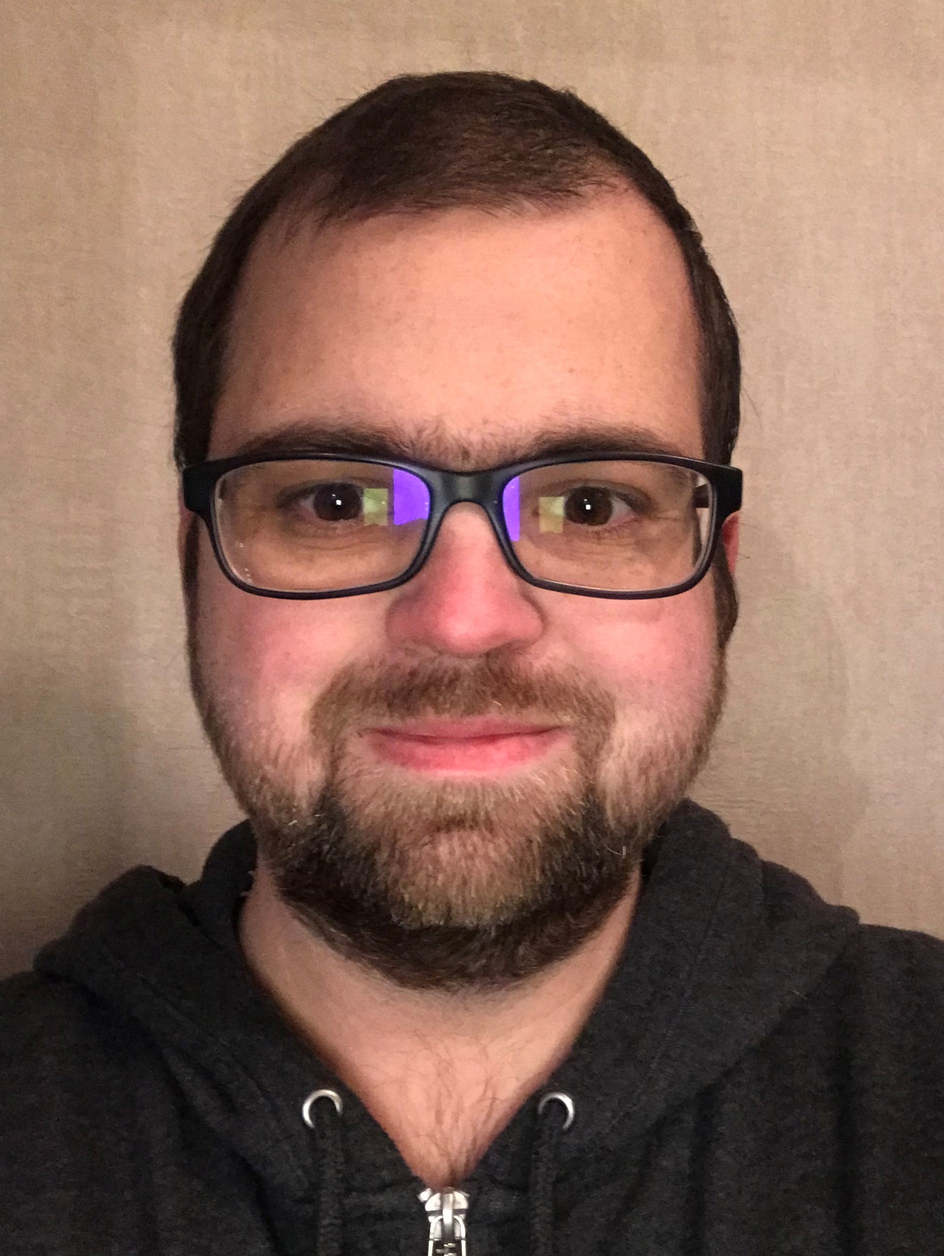
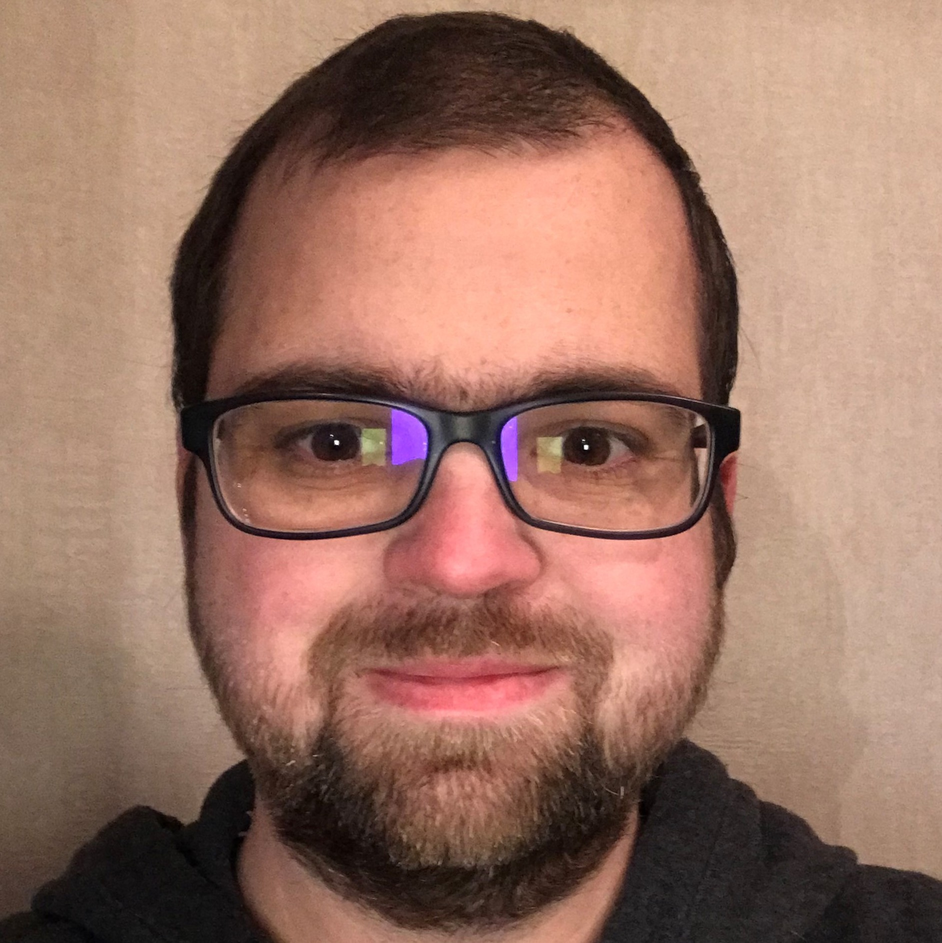
Ajout de meta description et open graph + modification de la photo

diff --git a/index.html b/index.html
@@ -1,17 +1,25 @@
 <!DOCTYPE html>
-<html lang="fr">
+<html lang="fr" prefix="og: http://ogp.me/ns#">
     <head>
         <!-- META -->
-        <meta charset="UTF-8">
-        <meta name="viewport" content="width=device-width, initial-scale=1.0">
-        <meta http-equiv="X-UA-Compatible" content="ie=edge">
+        <meta charset="UTF-8"/>
+        <meta name="viewport" content="width=device-width, initial-scale=1.0"/>
+        <meta name="description" content="Auteur: Athoms, Présentation de mon CV sous forme de site web"/>
+        <meta name="robots" content="max-snippet:[-1], max-image-preview: standard"/>
+        <meta http-equiv="X-UA-Compatible" content="ie=edge"/>
+        <meta property="og:title" content="Mon CV en ligne"/>
+        <meta property="og:type" content="CV"/>
+        <meta property="og:description" content="Présentation de mon CV sous forme de site web"/>
+        <meta property="og:url" content="https://athomsll.github.io/CV_en_ligne/"/>
+        <meta property="og:image" content="https://athomsll.github.io/CV_en_ligne/img/moi.jpg"/>
+        <meta property="og:locale" content="fr_FR"/>
 
         <!-- FONTS -->
-        <link href="https://fonts.googleapis.com/css?family=Roboto:100,300,400,500,700&display=swap" rel="stylesheet">
+        <link href="https://fonts.googleapis.com/css?family=Roboto:100,300,400,500,700&display=swap" rel="stylesheet"/>
 
         <!-- CSS -->
-        <link rel="stylesheet" href="css/style.css" type="text/css">
-        <link rel="stylesheet" media="screen" href="css/media.css" type="text/css">
+        <link rel="stylesheet" href="css/style.css" type="text/css"/>
+        <link rel="stylesheet" media="screen" href="css/media.css" type="text/css"/>
         
         <!-- FONT AWESOME -->
         <script src="https://kit.fontawesome.com/17027b2979.js" crossorigin="anonymous"></script>
@@ -22,7 +30,7 @@
         <div class="container">
             <aside class="infos">
                 <div class="photo">
-                    <img src="img/moi.jpg" alt="Ma photo" height="200" width="200">
+                    <img src="img/moi.jpg" alt="Ma photo" height="200" width="200"/>
                     <div class="name-resp">
                         <h1 class="heading__primary--main-resp">
                             <span class="prenom-resp">Thomas</span> Leblanc
@@ -33,23 +41,23 @@
                 <div class="contact">
                     <h3 class="title-aside">Contact</h3>
                     <div class="perso">
-                        <p>Adresse <br>
+                        <p>Adresse <br/>
                            Ecorcei, France
                         </p>
                     
-                        <p>Téléphone <br>
-                           XX.XX.XX.XX.XX
+                        <p>Téléphone <br/>
+                           06.42.56.74.98
                         </p>
                     
-                        <p>Email <br>
+                        <p>Email <br/>
                            <a href="mailto:thomas.leblanc61@gmail.com" title="Envoyer un mail">thomas.leblanc61@gmail.com</a>
                         </p>
 
-                        <p>LinkedIn <br>
+                        <p>LinkedIn <br/>
                            <a href="https://www.linkedin.com/in/athoms/" title="Lien vers mon LinkedIn" target="_blank">linkedin.com/in/athoms</a>
                         </p>
 
-                        <p>Skype <br>
+                        <p>Skype <br/>
                            thomas.leblanc61
                         </p>
                     </div>
@@ -84,7 +92,7 @@
 
                 <section class="formation">
                     <div class="section__heading">
-                        <i class="fas fa-university"></i>
+                        <i class="fas fa-university" aria-hidden="true"></i>
                         <h3>Formation</h3>
                     </div>
                     <div class="formation__container">
